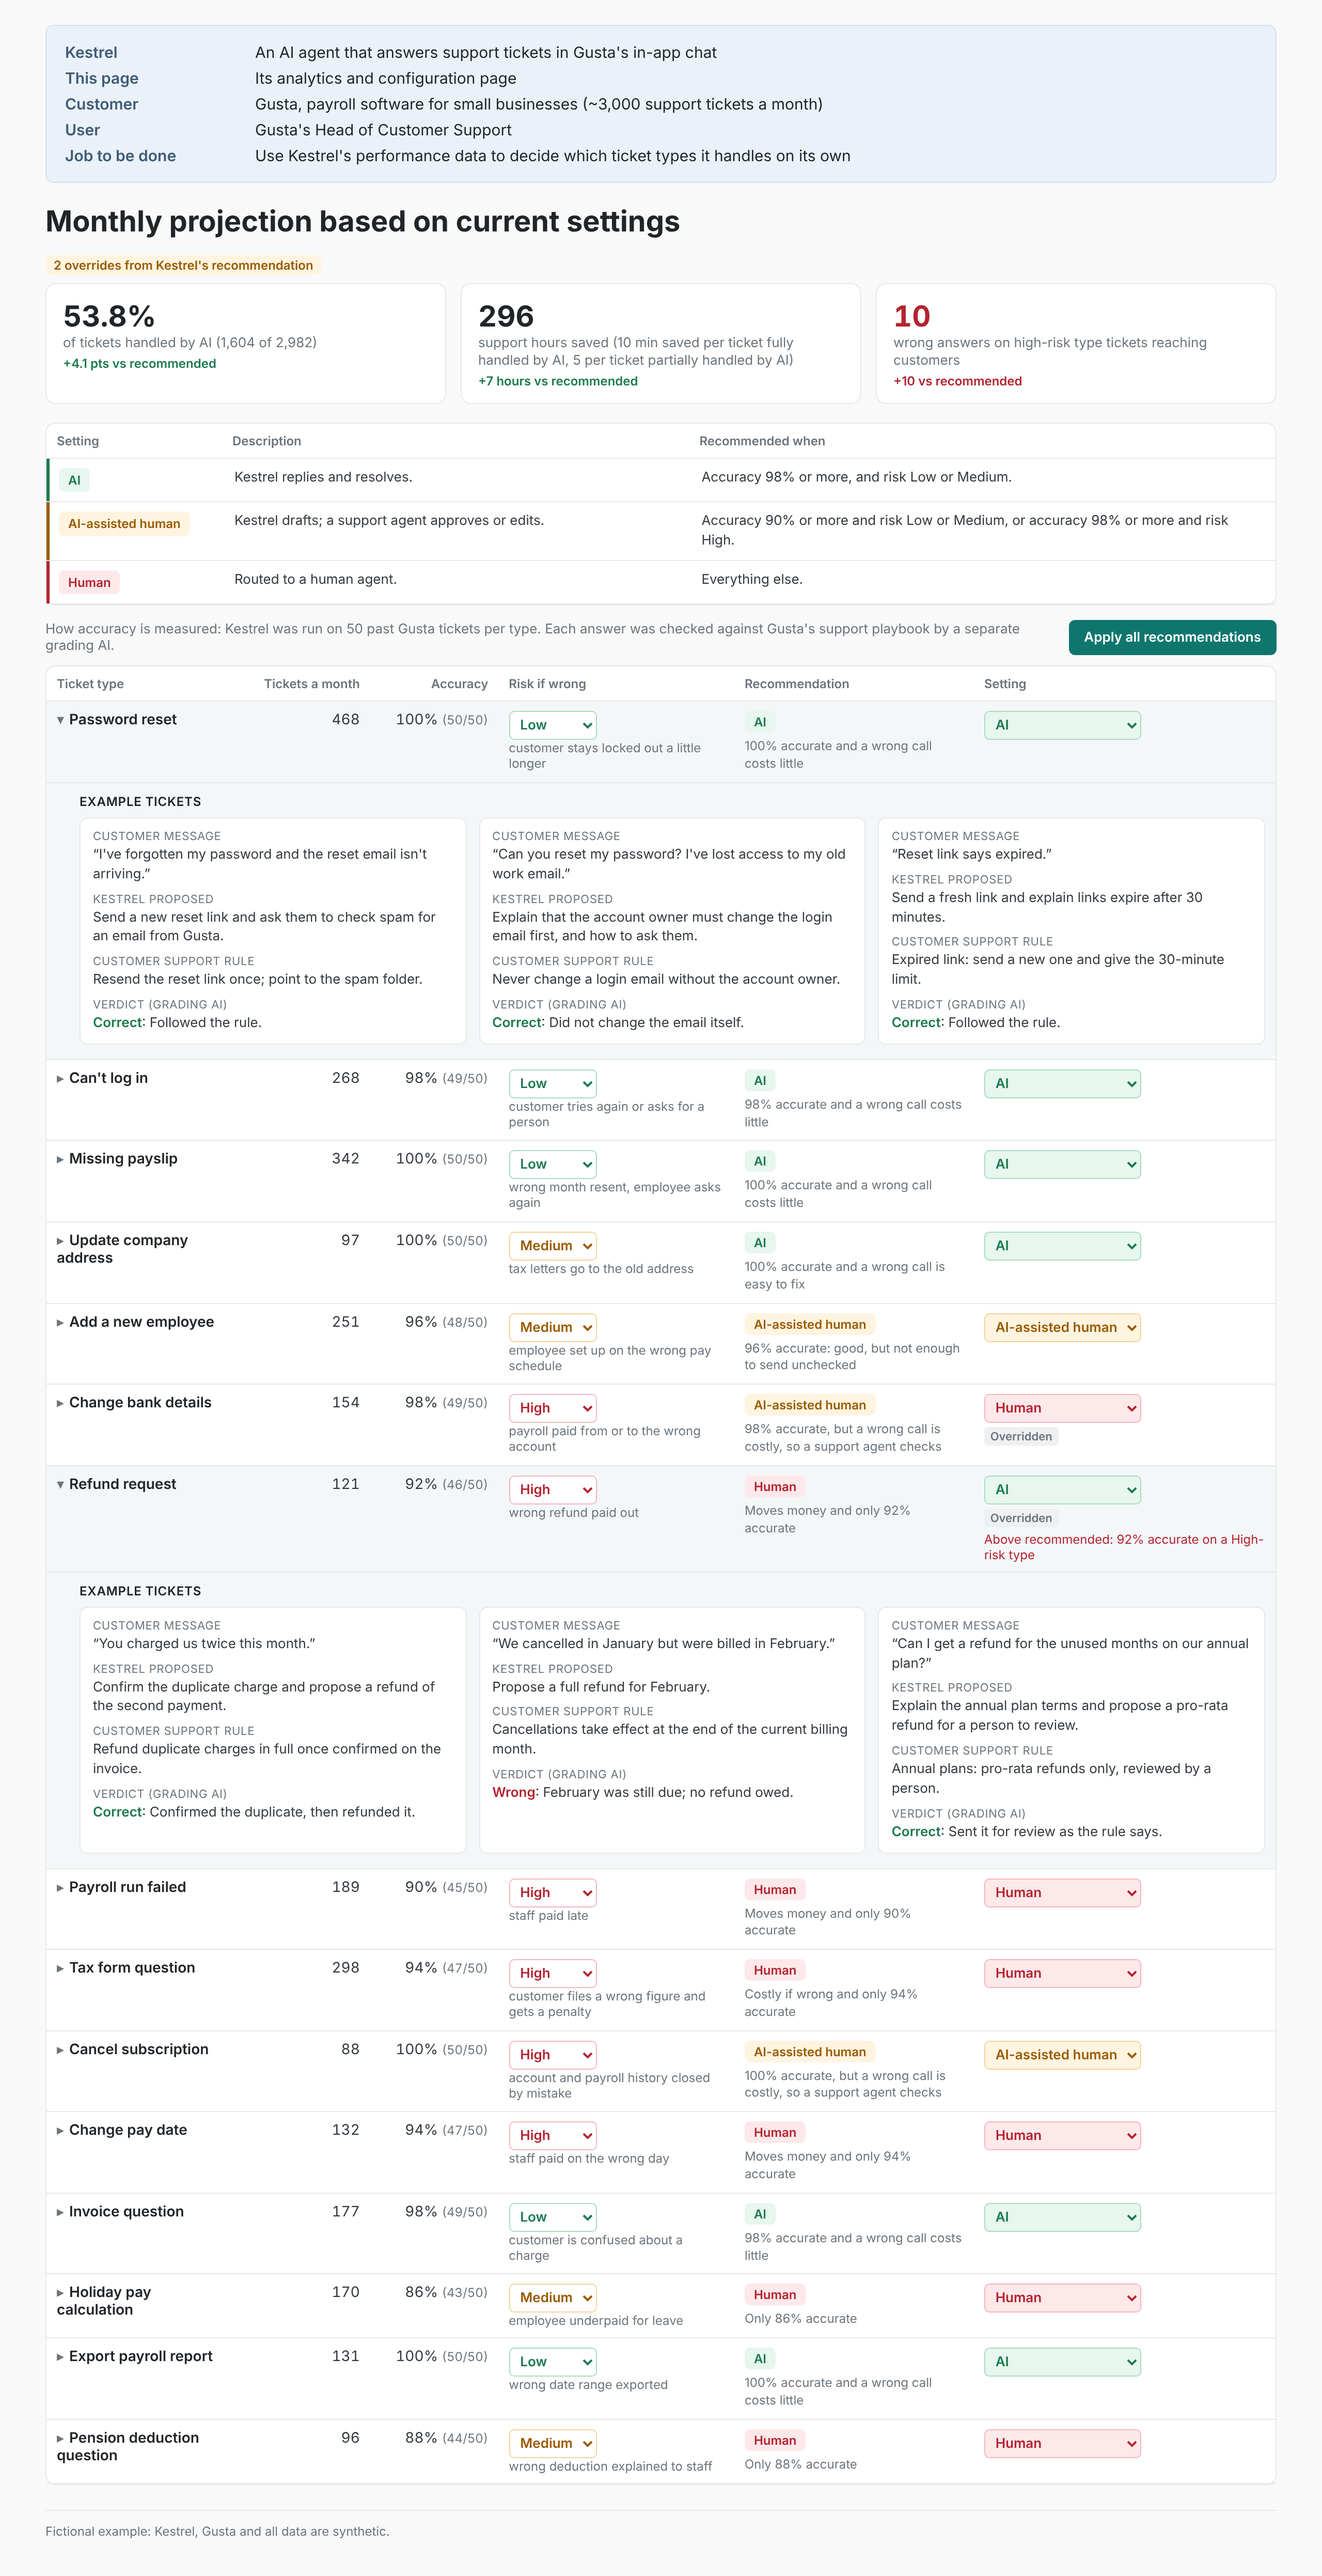
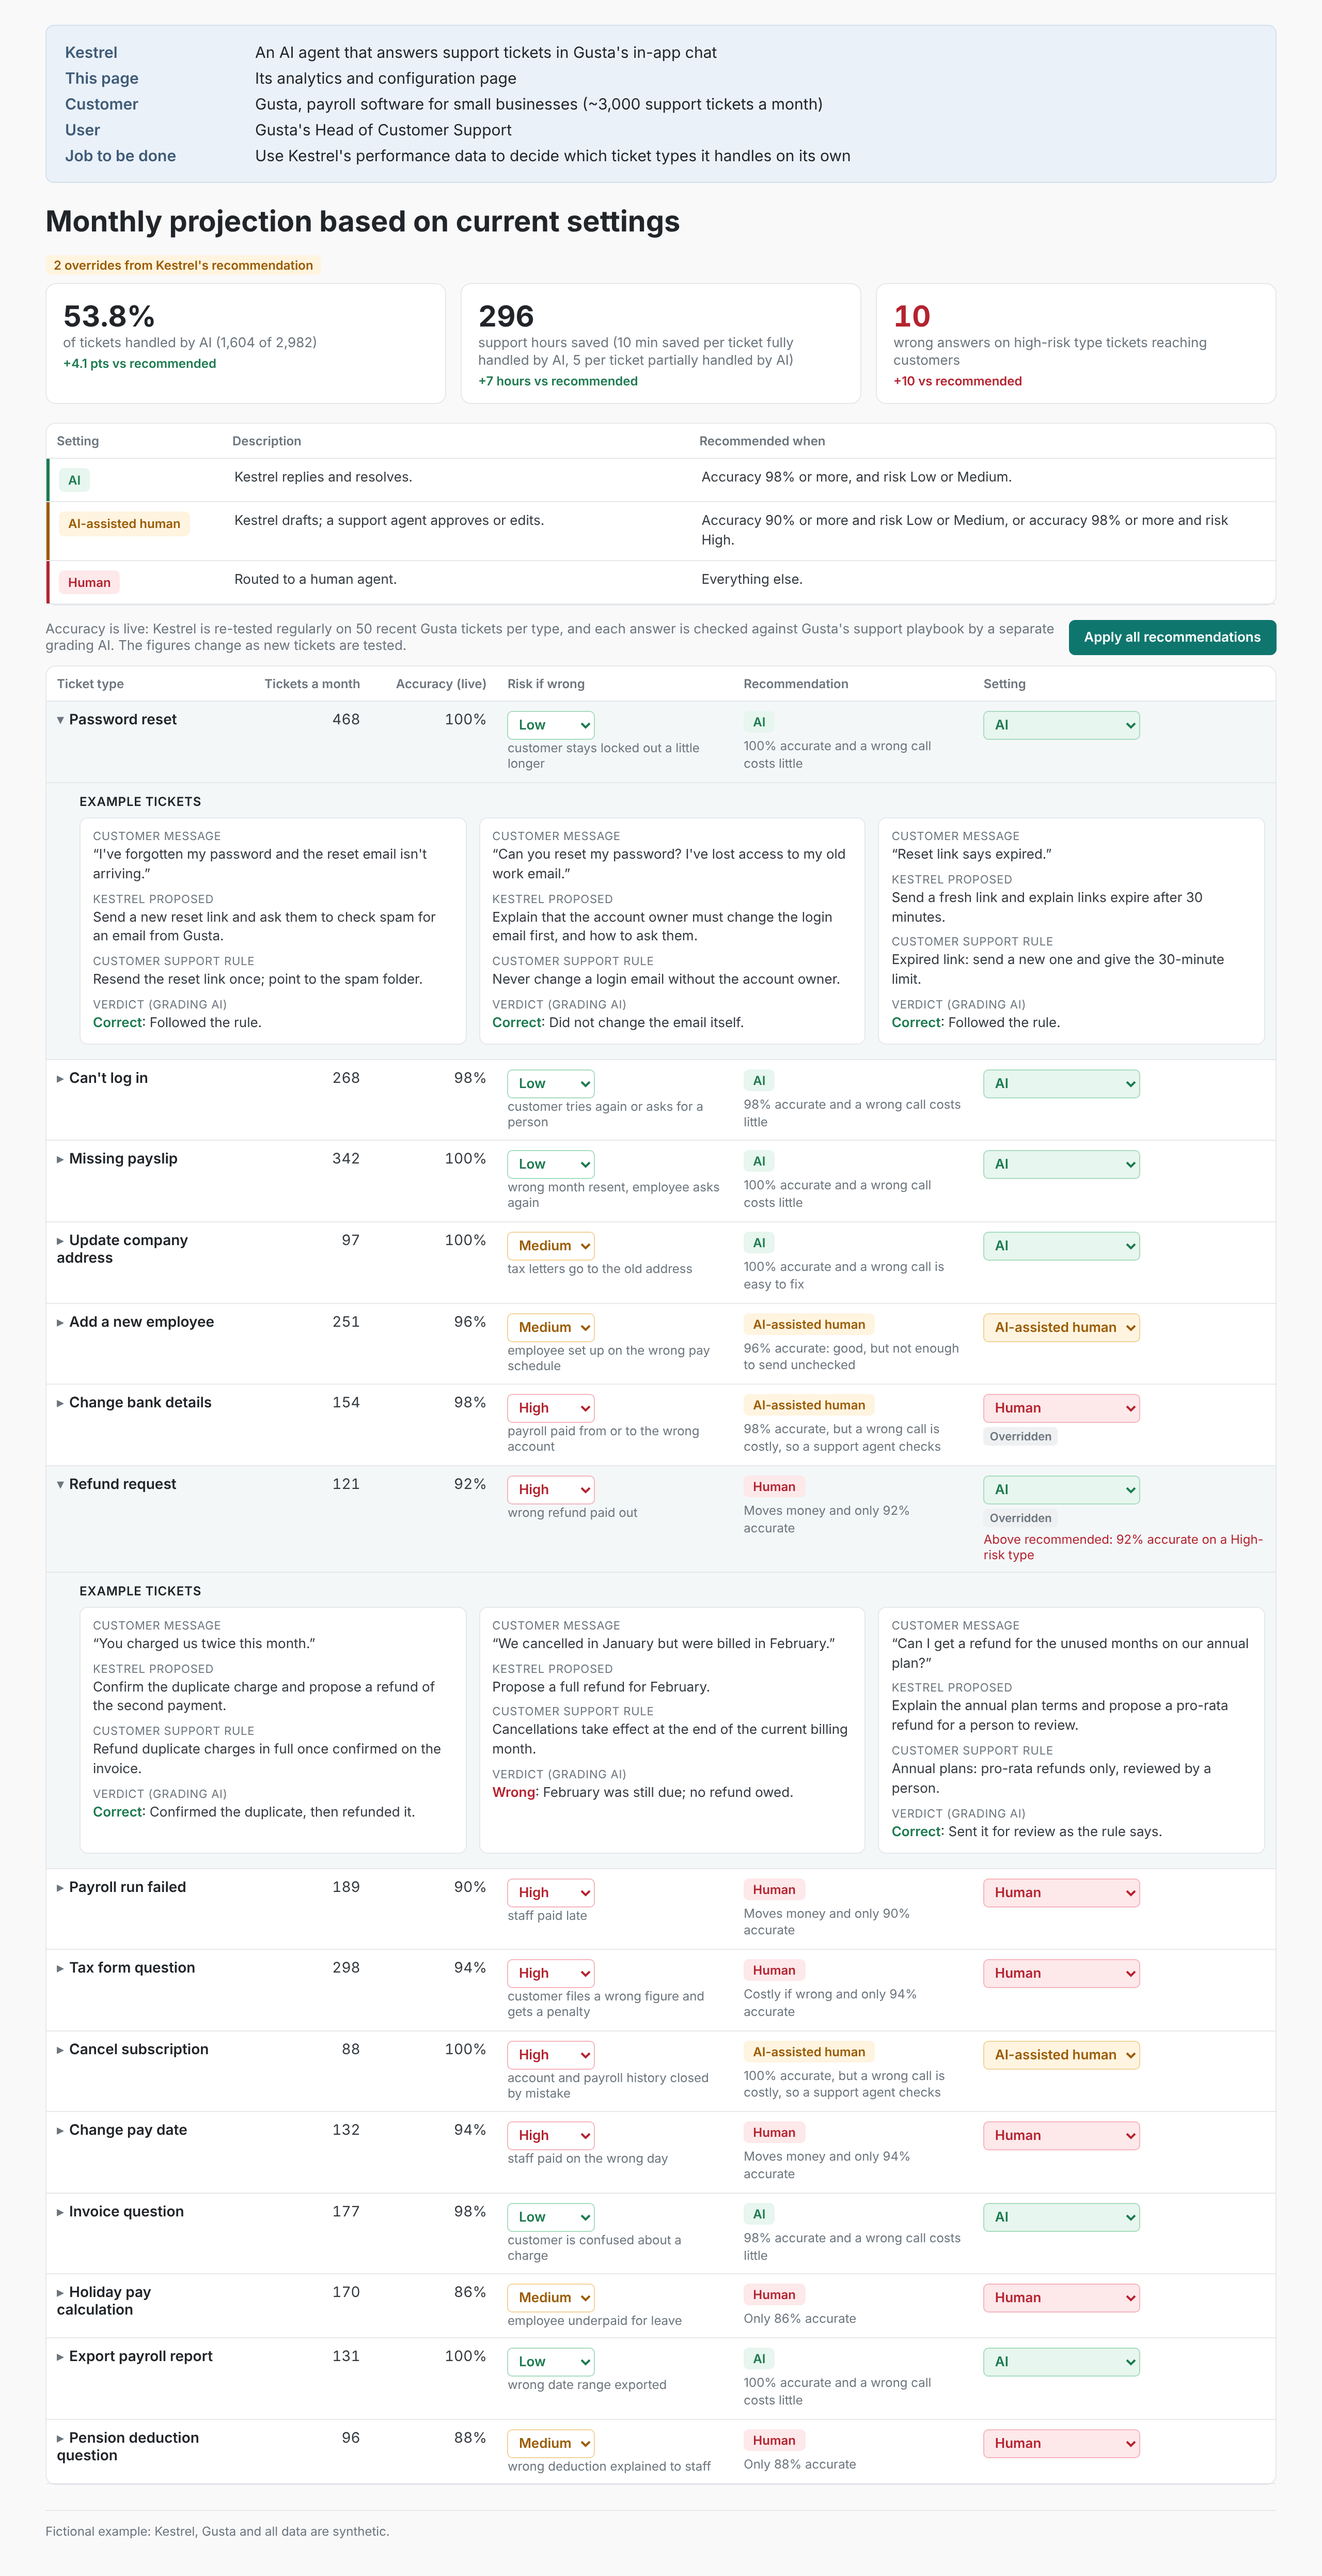
Live accuracy (no counts); README matches the current page
Claude-Session: https://claude.ai/code/session_016JoguXTxkWcj5knaYbAtMZ

diff --git a/examples/kestrel/run/build/mvp.html b/examples/kestrel/run/build/mvp.html
@@ -115,7 +115,7 @@ function staticParts(){
     <tr class="r-resolve"><td><span class="chip c-resolve">AI</span></td><td>${K} replies and resolves.</td><td>Accuracy 98% or more, and risk Low or Medium.</td></tr>
     <tr class="r-draft"><td><span class="chip c-draft">AI-assisted human</span></td><td>${K} drafts; a support agent approves or edits.</td><td>Accuracy 90% or more and risk Low or Medium, or accuracy 98% or more and risk High.</td></tr>
     <tr class="r-human"><td><span class="chip c-human">Human</span></td><td>Routed to a human agent.</td><td>Everything else.</td></tr></table>`;
-  document.getElementById('measure').textContent = `How accuracy is measured: ${K} was run on ${n} past ${G} tickets per type. Each answer was checked against ${G}'s support playbook by a separate grading AI.`;
+  document.getElementById('measure').textContent = `Accuracy is live: ${K} is re-tested regularly on ${n} recent ${G} tickets per type, and each answer is checked against ${G}'s support playbook by a separate grading AI. The figures change as new tickets are tested.`;
   document.getElementById('footer').textContent = `Fictional example: ${K}, ${G} and all data are synthetic.`;
 }
 function render(){
@@ -135,7 +135,7 @@ function render(){
     const main = `<tr class="row${isOpen ? ' open' : ''}" data-i="${i}" onclick="toggle(${i})">
       <td><span class="chev">${isOpen ? '▾' : '▸'}</span><span class="name">${t.name}</span></td>
       <td class="n">${fmt(t.tickets)}</td>
-      <td class="n">${p}% <span class="sub">(${t.correct}/${n})</span></td>
+      <td class="n">${p}%</td>
       <td onclick="event.stopPropagation()"><select class="rk-${t.risk}" data-risk="${i}" onchange="setRisk(${i}, this.value)">${['Low', 'Medium', 'High'].map(v => `<option${v === t.risk ? ' selected' : ''}>${v}</option>`).join('')}</select>${adj ? '<div class="adjusted">Adjusted by user</div>' : `<div class="sub">${t.risk_example.replace(/^\w+: /, '')}</div>`}</td>
       <td><span class="chip c-${rec}">${LABEL[rec]}</span>${adj ? '' : `<div class="reason">${t.reason}</div>`}</td>
       <td onclick="event.stopPropagation()"><select class="s-${set}" data-i="${i}" onchange="setMode(${i}, this.value)">${['resolve', 'draft', 'human'].map(m => `<option value="${m}"${m === set ? ' selected' : ''}>${LABEL[m]}</option>`).join('')}</select>${over}${warn}</td>
@@ -146,7 +146,7 @@ function render(){
       <p><span class="lbl">Customer support rule</span>${e.rule}</p>
       <p><span class="lbl">Verdict (grading AI)</span><span class="${e.correct ? 'ok">Correct' : 'no">Wrong'}</span>: ${e.verdict_reason}</p></div>`).join('')}</div></td></tr>` : '';
     return main + det; }).join('');
-  document.getElementById('types').innerHTML = `<tr><th>Ticket type</th><th class="n">Tickets a month</th><th class="n">Accuracy</th><th>Risk if wrong</th><th>Recommendation</th><th>Setting</th></tr>${rows}`;
+  document.getElementById('types').innerHTML = `<tr><th>Ticket type</th><th class="n">Tickets a month</th><th class="n">Accuracy (live)</th><th>Risk if wrong</th><th>Recommendation</th><th>Setting</th></tr>${rows}`;
 }
 function toggle(i){ open.has(i) ? open.delete(i) : open.add(i); render(); }
 let toastTimer;

diff --git a/README.md b/README.md
@@ -8,22 +8,22 @@ How I go from a customer's ask to a tested, working prototype with Claude Code: 
 
 [Source: context, data and code](examples/kestrel/) · [decisions I made](examples/kestrel/run/RUN.md#decisions-i-made-and-what-i-turned-down)
 
-![Kestrel's dashboard: which tickets can Kestrel handle on its own?](examples/kestrel/run/design/1-overview.png)
+![Kestrel's analytics and configuration page: monthly projection based on current settings](examples/kestrel/run/design/1-overview.png)
 
 > **The example in [`examples/kestrel/`](examples/kestrel/) is FICTIONAL.** Kestrel, Gusta and all data are synthetic. It shows the workflow end to end on a realistic B2B SaaS case: deciding which support tickets an AI agent can handle on its own.
 
 ## What the demo shows
-Kestrel's analytics and configuration page (not the agent itself), for Gusta's Head of Customer Support:
+Kestrel's analytics and configuration page, for Gusta's Head of Customer Support. Kestrel is an AI agent that answers support tickets in Gusta's in-app chat.
 
 | Part | What it shows |
 |---|---|
-| Monthly projection | With the default settings (one override: Change bank details kept with a human): **49.7%** of tickets handled by AI (1,483 of 2,982 a month) · **275** support hours saved a month (10 minutes per ticket fully handled by AI, 5 per ticket partially handled by AI) · **0** wrong answers on high-risk type tickets reaching customers a month |
-| Decision rules | **AI** (98%+ accurate, risk Low or Medium) · **AI-assisted human** (90%+ and risk Low or Medium, or 98%+ and risk High) · **Human** (everything else) |
-| The table | 15 ticket types in in-app chat: tickets a month, accuracy, risk if wrong, Kestrel's recommendation with its reason, and a setting Gusta controls |
-| Overrides | Risk and setting are both adjustable. Changing a risk re-runs the recommendation ("Adjusted by user"); changing a setting shows "Overridden" and warns when it gives Kestrel more autonomy than recommended. The three numbers update live, with the change against the recommendation |
-| Examples | 3 tickets under each row: customer message, what Kestrel proposed, the customer support rule, and the grading AI's verdict |
+| Monthly projection based on current settings | **49.7%** of tickets handled by AI (1,483 of 2,982) · **275** support hours saved (10 minutes per ticket fully handled by AI, 5 per ticket partially handled by AI) · **0** wrong answers on high-risk type tickets reaching customers. Recalculates as settings change, and shows the change against Kestrel's recommendation |
+| Settings | **AI**: Kestrel replies and resolves (recommended at 98%+ accuracy and risk Low or Medium) · **AI-assisted human**: Kestrel drafts, a support agent approves or edits (90%+ and risk Low or Medium, or 98%+ and risk High) · **Human**: routed to a human agent (everything else) |
+| The table | 15 ticket types: tickets a month, live accuracy, risk if wrong, Kestrel's recommendation with its reason, and the setting Gusta controls |
+| Adjustments | Risk and setting are both editable. Changing a risk shows "Adjusted by user" and re-runs the recommendation; changing a setting shows "Overridden" and warns when it gives Kestrel more autonomy than recommended. A confirmation appears after each change. The page opens with one override (Change bank details kept with a human); "Apply all recommendations" resets it |
+| Example tickets | 3 under each ticket type: customer message, what Kestrel proposed, the customer support rule, and the grading AI's verdict |
 
-Accuracy comes from running Kestrel on 50 past tickets per type, each checked against Gusta's support playbook by a separate grading AI. Every number on the page is calculated from [the data](examples/kestrel/run/data/ticket_types.json) and checked by [tests](examples/kestrel/run/build/test_mvp.js) on every push.
+Accuracy is live: Kestrel is re-tested regularly on 50 recent tickets per type, each checked against Gusta's support playbook by a separate grading AI. Every number on the page is calculated from [the data](examples/kestrel/run/data/ticket_types.json) and checked by [tests](examples/kestrel/run/build/test_mvp.js) on every push.
 
 ## My AI stack
 
